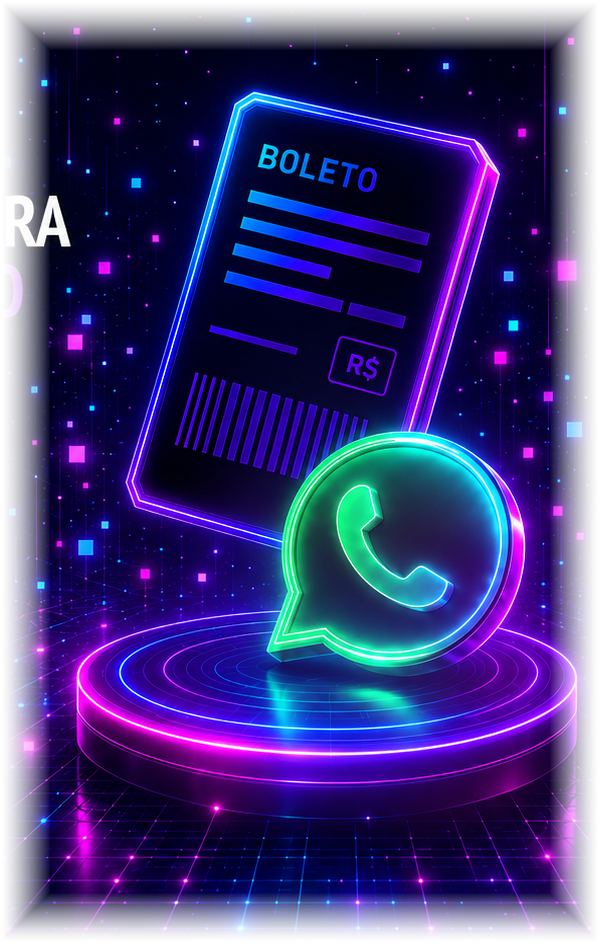
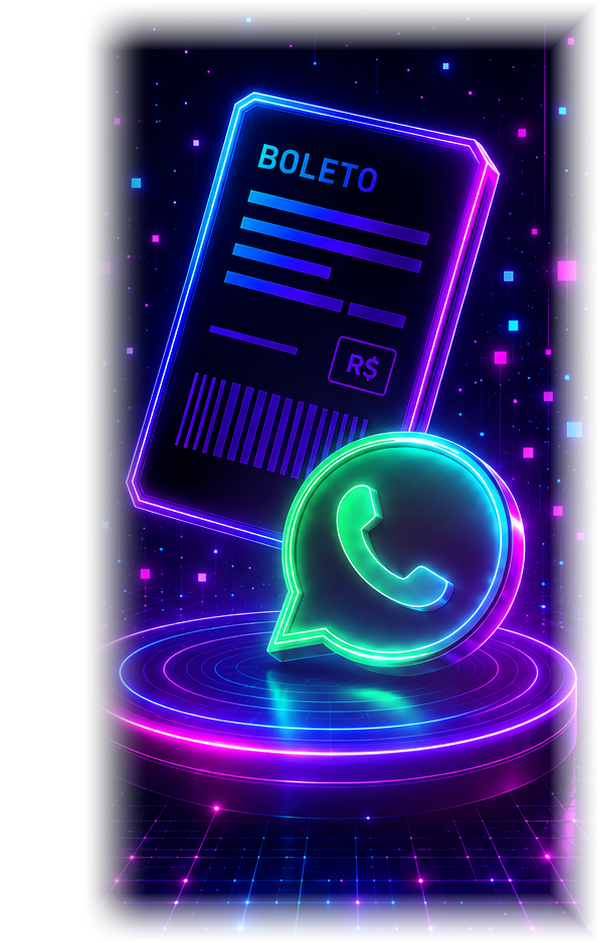
Correções Visuais 0.16

Changed region(s): [[0.0, 0.0, 0.24, 1.0]]

diff --git a/styles.css b/styles.css
@@ -62,36 +62,51 @@ form{position:relative}.form-section{min-width:0;margin:0;padding:18px 0 0;borde
 @media(prefers-reduced-motion:reduce){html{scroll-behavior:auto}*,*:before,*:after{animation:none!important;transition:none!important}}
 
 
-/* v6.2 - correcao exclusiva do titulo principal
-   Faz a tipografia responder a largura real da coluna, sem invadir a arte. */
+/* v6.3 - correcao definitiva do titulo principal.
+   O tamanho responde a largura real da coluna e nunca invade a arte. */
 .hero-copy {
   container-type: inline-size;
   position: relative;
-  z-index: 2;
+  z-index: 3;
+  overflow: visible;
 }
 
 .hero-copy h1 {
   width: 100%;
   max-width: 100%;
-  font-size: clamp(2.75rem, 13.8cqw, 5.1rem);
-  line-height: .92;
-  letter-spacing: -.012em;
+  margin: 0;
+  font-size: clamp(2.35rem, 10.35cqw, 4.65rem);
+  line-height: .93;
+  letter-spacing: -.024em;
 }
 
 .hero-copy h1 span {
   display: block;
-  width: fit-content;
+  width: 100%;
   max-width: 100%;
   white-space: nowrap;
 }
 
 .hero-art {
+  position: relative;
+  z-index: 1;
+}
+
+.hero-art img {
+  position: relative;
   z-index: 1;
 }
 
 @media (max-width: 1450px) {
   .hero-copy h1 {
-    font-size: clamp(2.65rem, 13.8cqw, 4.4rem);
+    font-size: clamp(2.25rem, 10.1cqw, 4rem);
+    letter-spacing: -.026em;
+  }
+}
+
+@media (max-width: 1160px) {
+  .hero-copy h1 {
+    font-size: clamp(2.2rem, 10.15cqw, 3.8rem);
   }
 }
 
@@ -101,9 +116,9 @@ form{position:relative}.form-section{min-width:0;margin:0;padding:18px 0 0;borde
   }
 
   .hero-copy h1 {
-    font-size: clamp(2.45rem, 11.5vw, 3.15rem);
-    line-height: .94;
-    letter-spacing: -.01em;
+    font-size: clamp(2.35rem, 11vw, 3.15rem);
+    line-height: .95;
+    letter-spacing: -.018em;
   }
 
   .hero-copy h1 span {

diff --git a/index.html b/index.html
@@ -7,7 +7,7 @@
   <meta name="description" content="Solicitação interna de boletos da Credvix com envio automático pelo WhatsApp.">
   <title>Boleto Credvix</title>
   <link rel="icon" href="assets/favicon.svg" type="image/svg+xml">
-  <link rel="stylesheet" href="styles.css?v=6.2.0">
+  <link rel="stylesheet" href="styles.css?v=6.3.0">
   <script src="config.js" defer></script>
   <script src="app.js?v=6.1.0" defer></script>
 </head>
@@ -88,7 +88,7 @@
 
       <section class="hero-art" aria-label="Boleto enviado pelo WhatsApp">
         <div class="hero-glow" aria-hidden="true"></div>
-        <img src="assets/hero-neon-integrado.png" alt="Ilustração de boleto e WhatsApp em estilo neon">
+        <img src="assets/hero-neon-integrado.png?v=6.3.0" alt="Ilustração de boleto e WhatsApp em estilo neon">
       </section>
 
       <aside class="request-column" id="seguranca">
